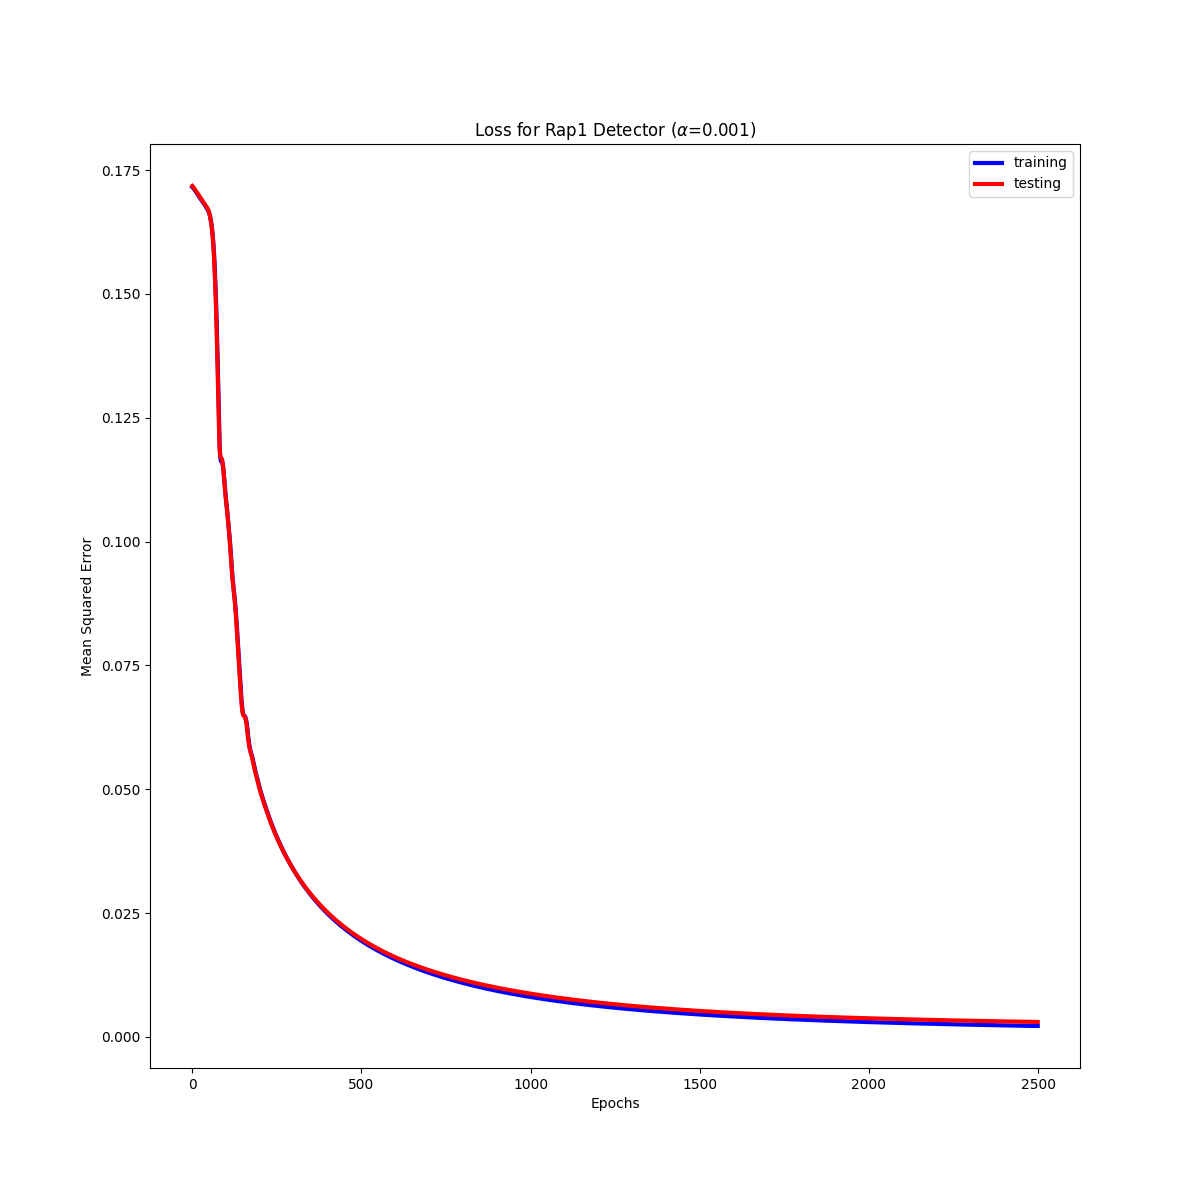
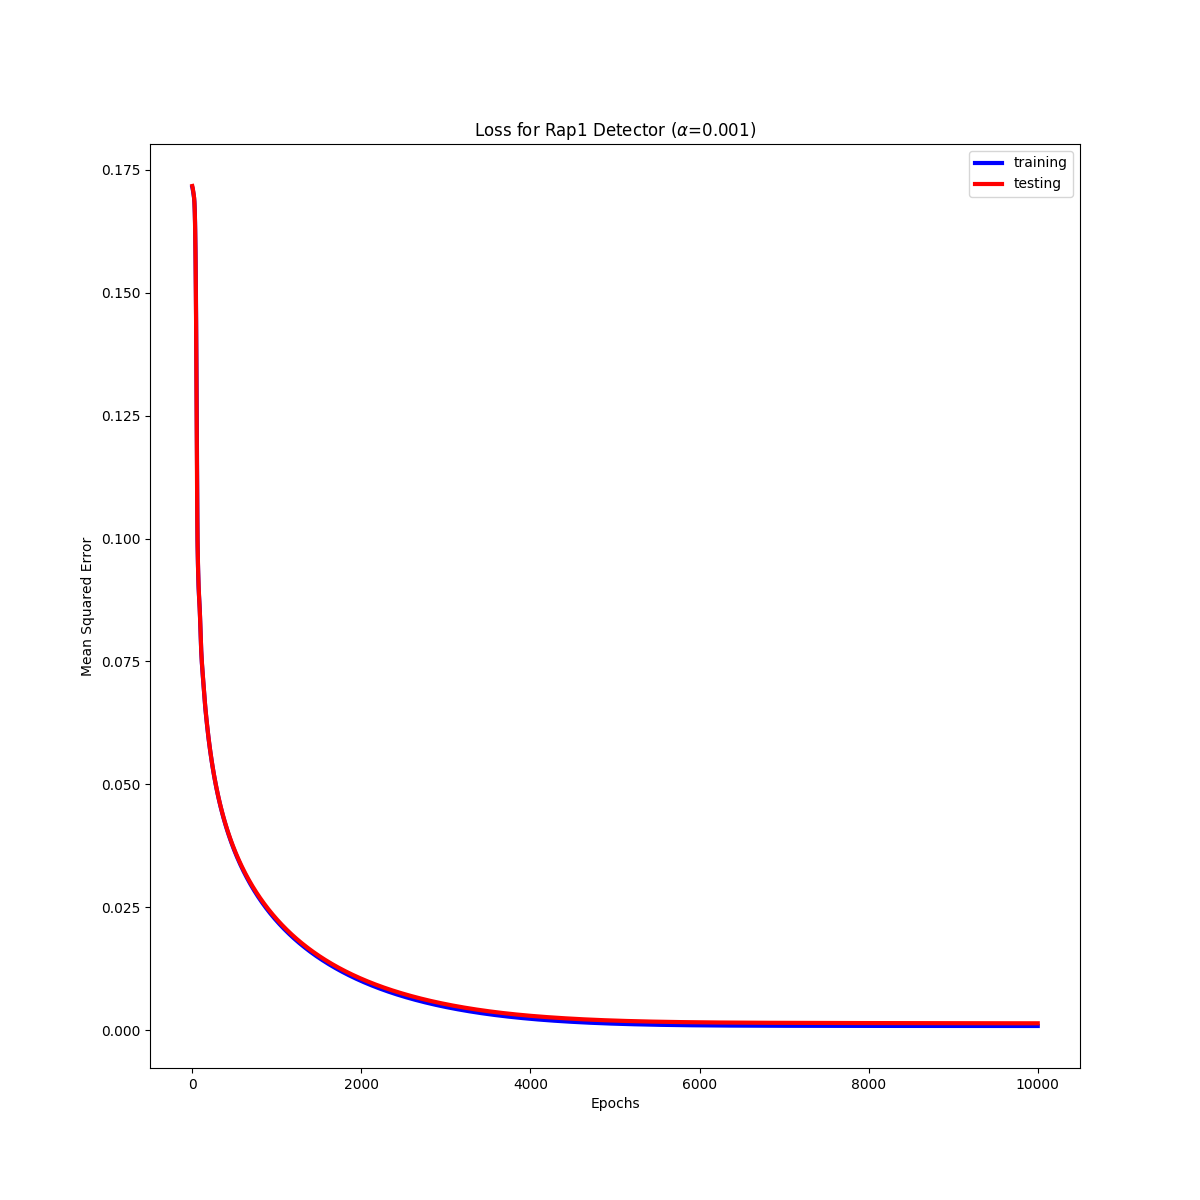
Test a bunch of different architectures
Turns out I didn't need the 3rd hidden layer. Also swap around
activation functions. Sigmoids work basically as well but they're
much slower so stick with mostly ReLUs.

diff --git a/train_ann.py b/train_ann.py
@@ -2,6 +2,8 @@
 
 """ Train the Rap1 site detector """
 
+# Imports
+import time
 import secrets
 import pathlib
 import argparse
@@ -75,13 +77,13 @@ def train_rap1_det(learn_rate=LEARN_RATE,
     net = model.Model('Rap1 Detector',
                       input_size=68,
                       rng=rng)
-    net.add_layer(layers.FullyConnected(size=32, func='relu'))
     net.add_layer(layers.FullyConnected(size=16, func='relu'))
     net.add_layer(layers.FullyConnected(size=8, func='relu'))
     net.add_layer(layers.FullyConnected(size=1, func='sigmoid'))
     net.init_weights()
     net.set_optimizer(optimizers.Adam(learn_rate=learn_rate))
 
+    t0 = time.time()
     train_losses = []
     test_losses = []
 
@@ -99,6 +101,8 @@ def train_rap1_det(learn_rate=LEARN_RATE,
                 epoch, train_losses[-1]))
             print('           : Last test error:  {}'.format(
                 test_losses[-1]))
+
+    print('Training took {} secs'.format(time.time() - t0))
 
     print('Saving final weights...')
     net.save_weights(str(WEIGHTDIR / 'ann_rap1.npz'))

diff --git a/README.md b/README.md
@@ -71,19 +71,17 @@ The data and plots were generated using [plot_rap1_data.py](https://github.com/d
 
 ## Rap1 Detector
 
-Using this training dataset a 5 layer neural network was designed:
+Using this training dataset a 4 layer neural network was designed:
 
 - Input layer - 68 neurons (17 bases x 4 bits/base)
+- Hidden layer 1 - 16 neurons
     - ReLU Activation
-- Hidden layer 1 - 32 neurons
+- Hidden layer 2 - 8 neurons
     - ReLU Activation
-- Hidden layer 2 - 16 neurons
-    - ReLU Activation
-- Hidden layer 3 - 8 neurons
-    - Sigmoid Activation
 - Output layer - 1 neuron
+    - Sigmoid Activation
 
-This network accepts one-hot encoded 17-base motifs and outputs a value between 0 and 1 with 0 indicating not a Rap1 site and 1 indicating a Rap1 site with 100% confidence. The network was trained for 2500 iterations using [train_ann.py](https://github.com/david-joy/bmi203-final/blob/master/train_ann.py) resulting in the following loss profile:
+This network accepts one-hot encoded 17-base motifs and outputs a value between 0 and 1 with 0 indicating not a Rap1 site and 1 indicating a Rap1 site with 100% confidence. The network was trained for 10000 iterations using [train_ann.py](https://github.com/david-joy/bmi203-final/blob/master/train_ann.py) resulting in the following loss profile:
 
 <img src="plots/ann_rap1_loss.png"><br />
 
@@ -91,14 +89,20 @@ This training can be replicated by calling:
 
 ```bash
 python train_ann.py \
-    --seed 2426914260 \
+    --seed 333422904 \
     --learn-rate 0.001 \
-    --num-epochs 2500
+    --num-epochs 10000
 ```
 
-Training was stopped when the network reached 3% MSE on the hold out test data. It was attempted to train further, but the network error diverged due to dead neurons in the hidden layers.
+Training was stopped when the network reached minimal mean-squared error on the hold out test set (as measured by running for 1000 more iterations). Several other seeds were attempted, however some of them diverged, possibly due to floating point errors. A 0.1% error rate was deemed acceptable to continue analysis.
 
-This same training program was attempted with networks omiting either of hidden layers 1, 2, or 3.
+This same training program was attempted with networks omiting either of hidden layers 1, 2. Omitting hidden layer 1 caused the test error to diverge at 6000 iterations at 0.2% error. Omitting hidden layer 2 caused the test error to diverge around 3000 iterations at 0.3% error.
+
+Several other architectures were attempted, adding a third hidden layer with 32 or 16 neurons and a ReLU activation before hidden layer 1. These architectures diverged before reaching 2000 iterations and never dropped below 0.5% test error.
+
+Finally, the ReLU activations were systematically replaced with sigmoid activations. Sigmoid activation in hidden layer 1 reached 0.2% test error after 10000 iterations, but did not appear to have saturated. Sigmoid activation in hidden layer 2 diverged after 3000 iterations with a minimum error of 0.4%. Sigmoid activation in both hidden layers did eventually reach 0.1% test error, but took approximately 4x as long to train and evaluate.
+
+These experiments indicate that the architecture outlined above is a good system to evaluate Rap1 binding sites given the training dataset.
 
 ## Questions
 
